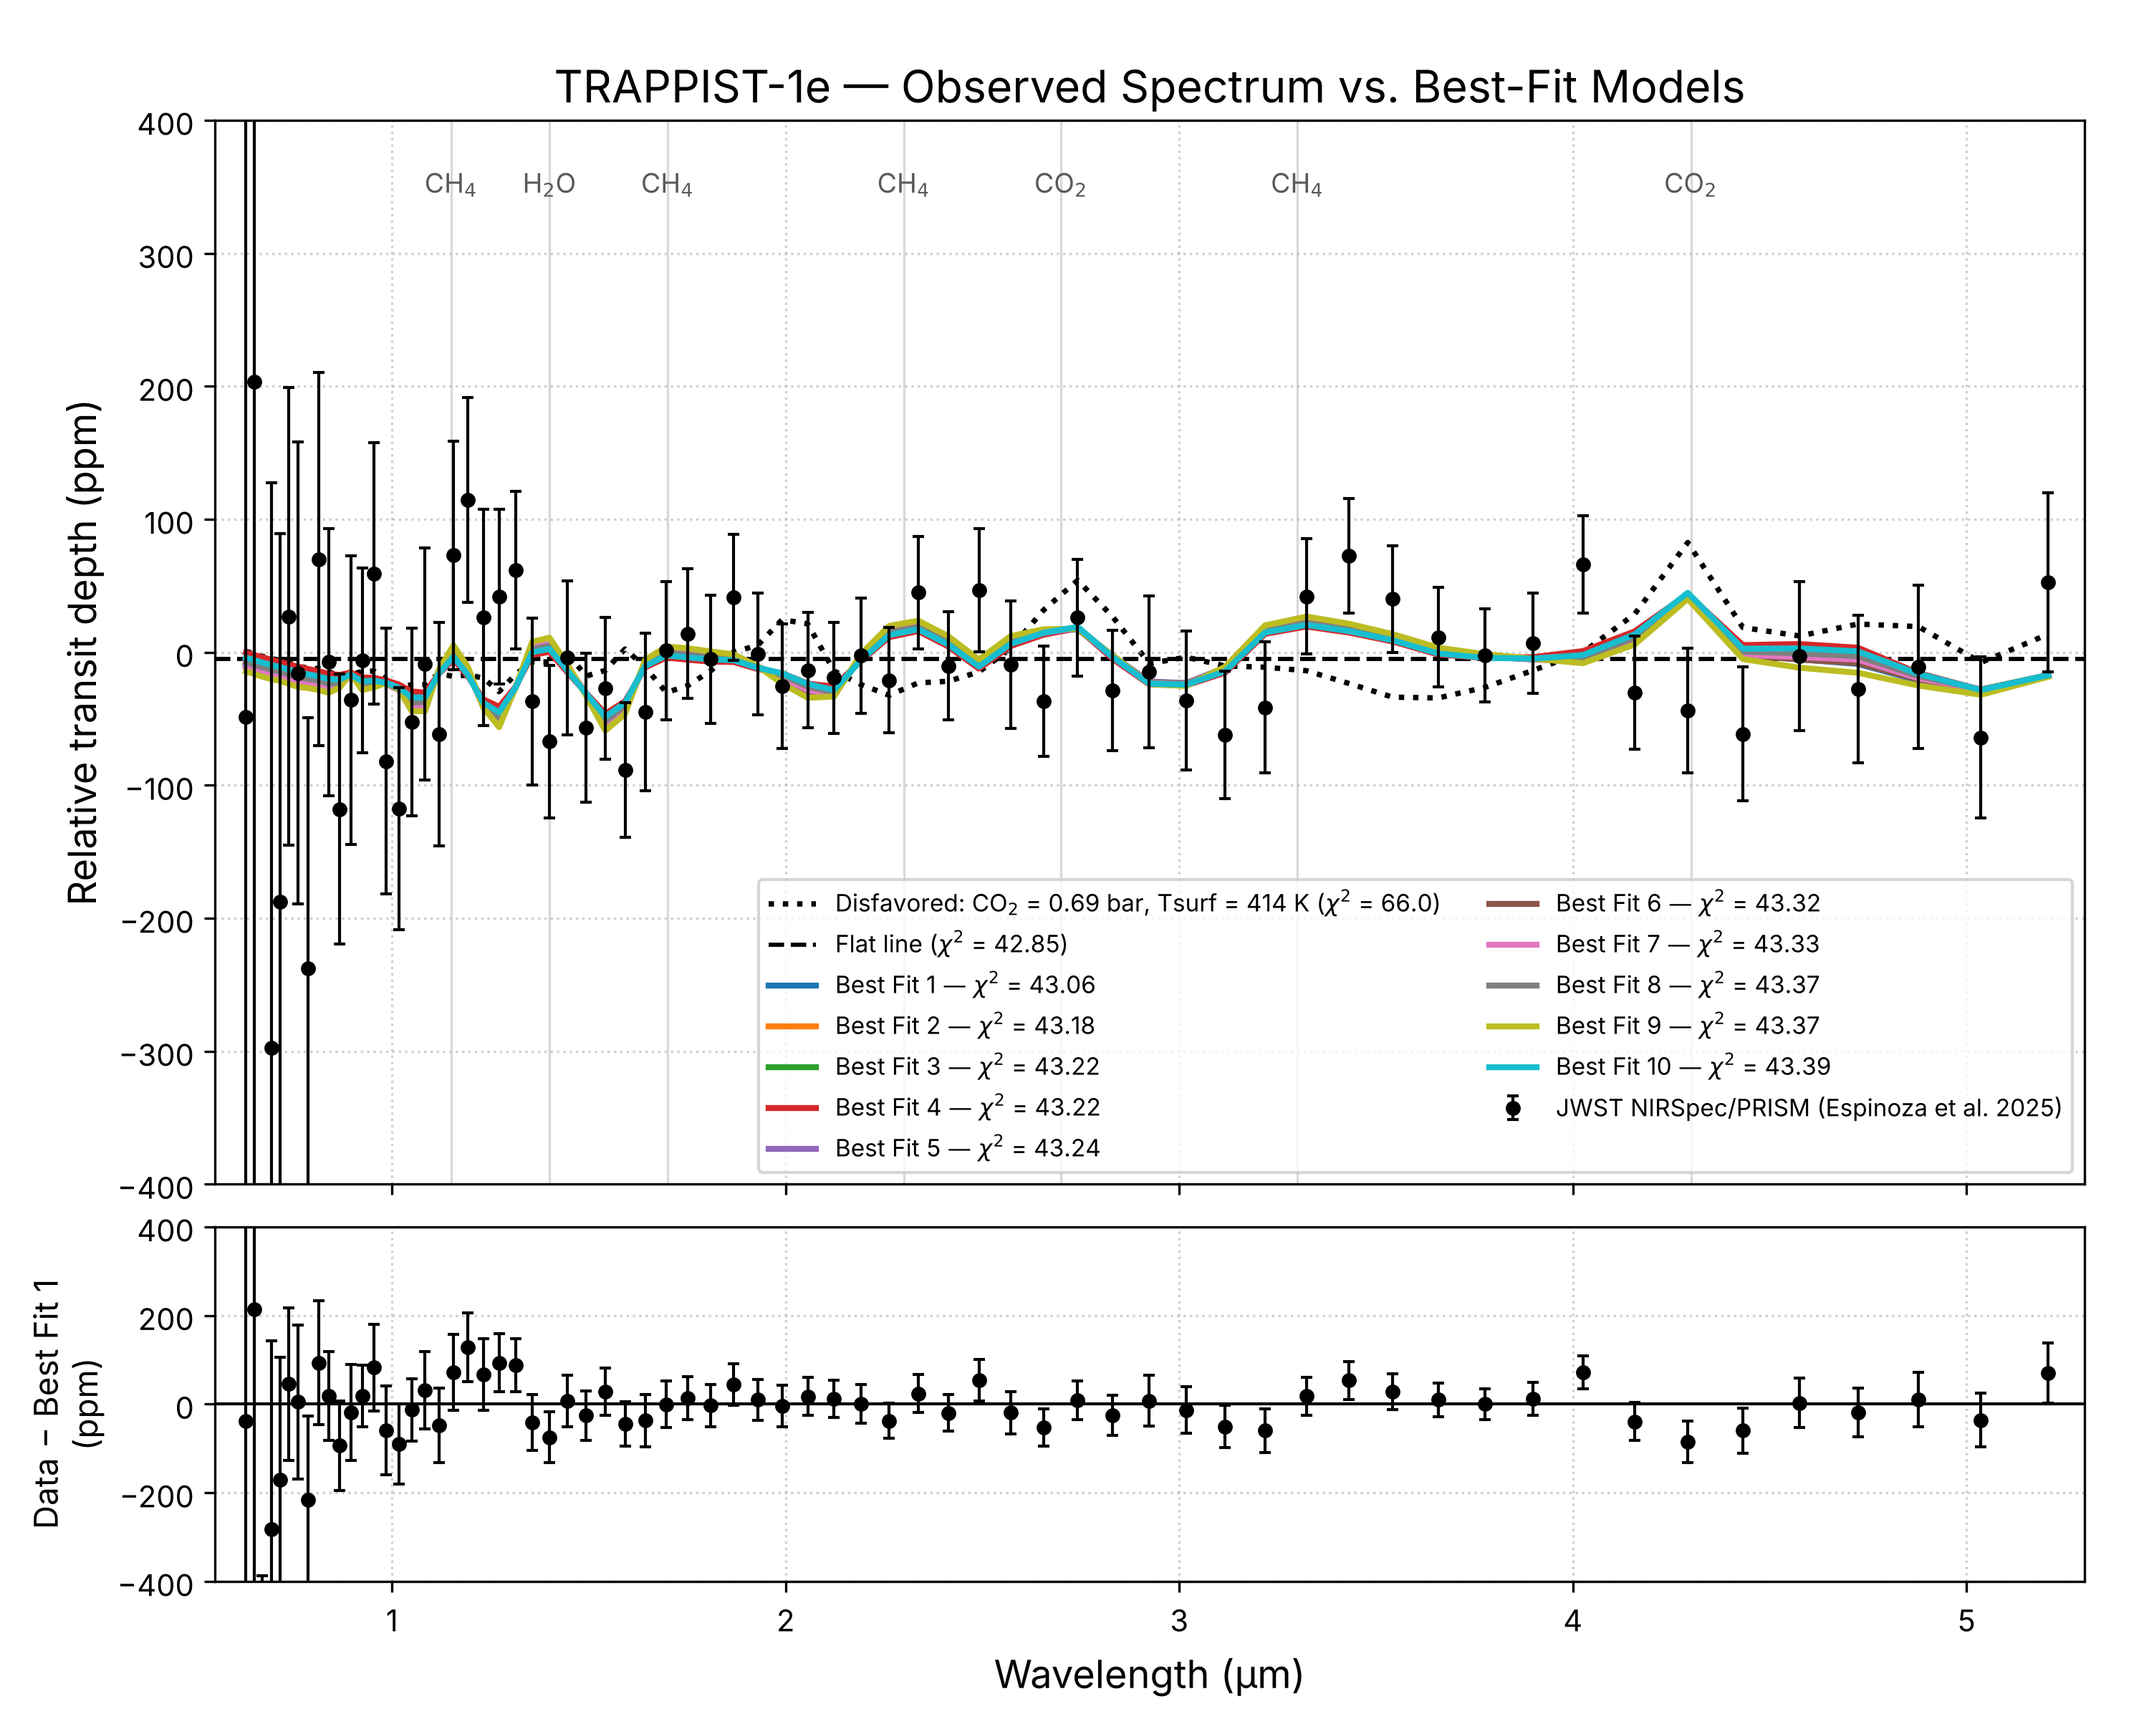
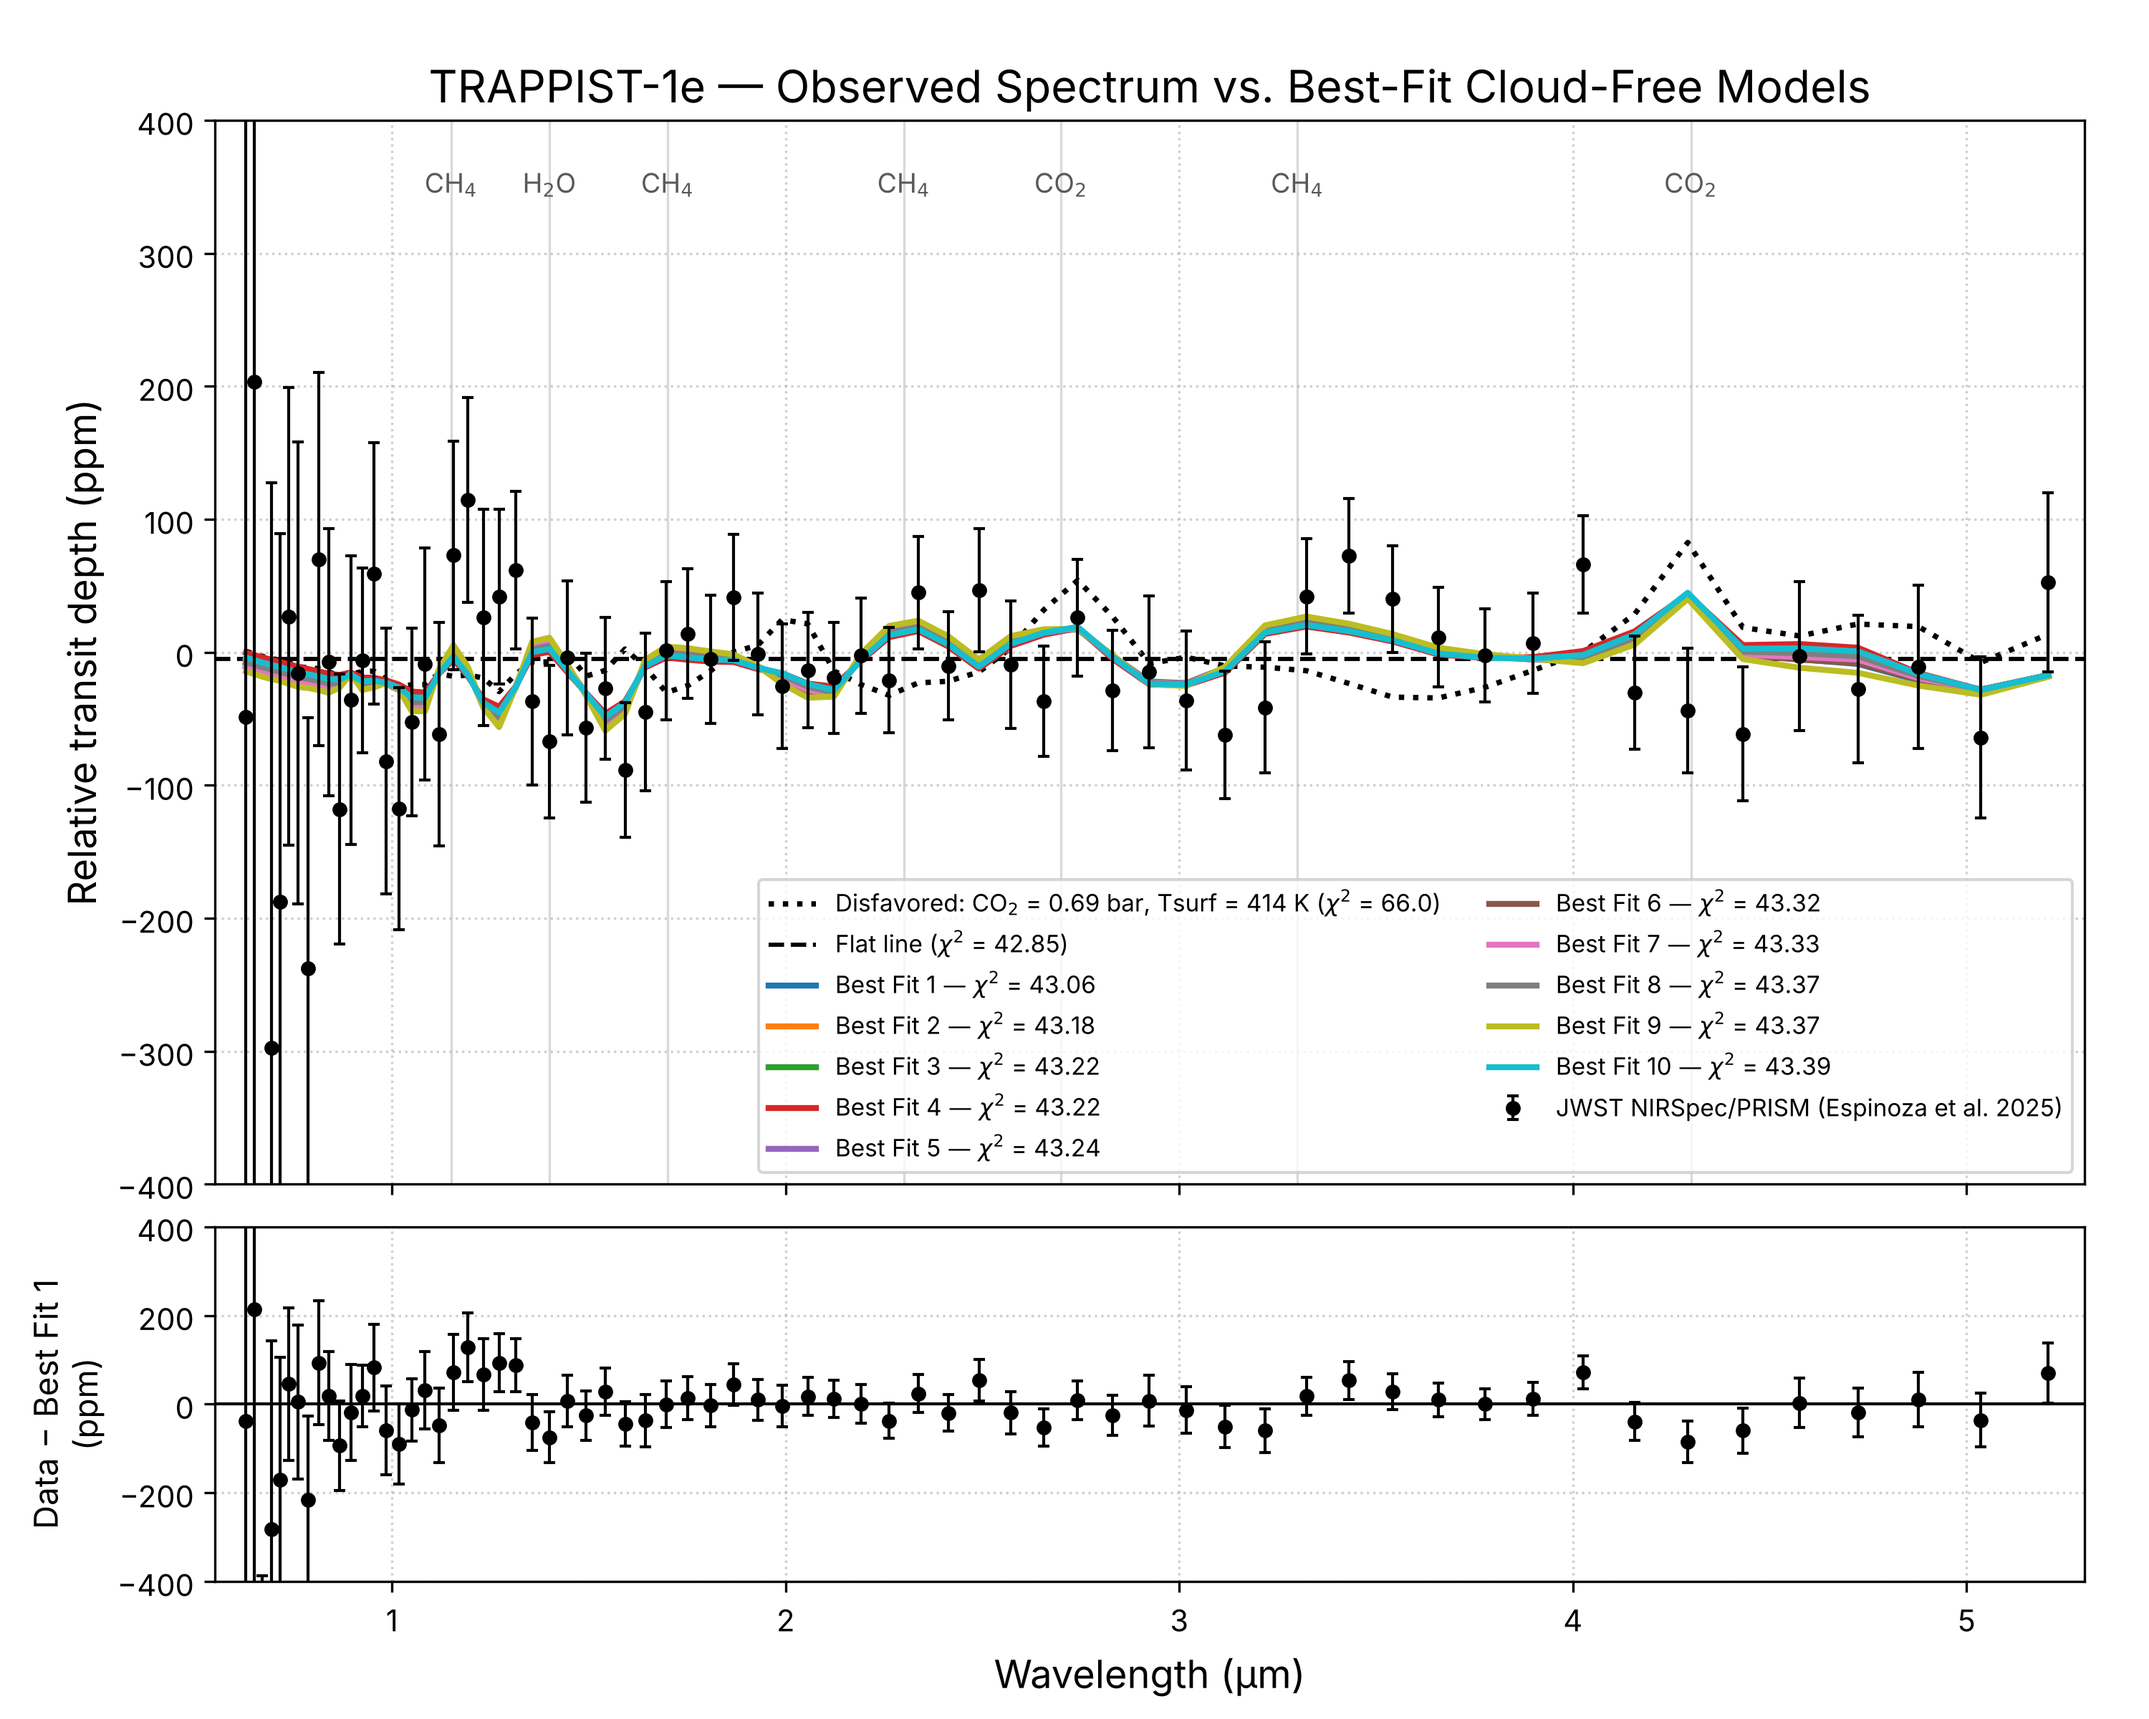
Figure 2 labelled cloud-free; README: convergence check result

Changed region(s): [[0.186, 0.0312, 0.868, 0.0625]]

diff --git a/paper_scripts/fig_spectra.py b/paper_scripts/fig_spectra.py
@@ -59,7 +59,7 @@ for x, s in [(1.15, "CH$_4$"), (1.4, "H$_2$O"), (1.7, "CH$_4$"), (2.3, "CH$_4$")
 
 ax.set_ylim(-400, 400)
 ax.set_ylabel("Relative transit depth (ppm)", fontsize=13)
-ax.set_title("TRAPPIST-1e — Observed Spectrum vs. Best-Fit Models", fontsize=15)
+ax.set_title("TRAPPIST-1e — Observed Spectrum vs. Best-Fit Cloud-Free Models", fontsize=15)
 ax.grid(True, which="both", ls=":", alpha=0.6)
 ax.legend(loc="lower right", fontsize=8, ncol=2)
 

diff --git a/README.md b/README.md
@@ -135,7 +135,7 @@ Gaussian line-spread function R = 100; one free additive offset per spectrum.
 ## Notes for users
 
 - Set the data paths before running: `JWST_FILE` in `pipeline/trappist1e_mc_pipeline.py` and in `analysis/flat_line_baseline.py`, and `VISIT_DIR` in `analysis/refit_visits12.py`.
-- In the pipeline, `photochemistry_converged` records that the photochemical integration completed without error. Whether each run reached steady state is checked separately by `analysis/convergence_check.py`, which re-runs a subsample of models and records the solver's convergence flag.
+- In the pipeline, `photochemistry_converged` records that the photochemical integration completed without error. Whether each run reached steady state is checked separately by `analysis/convergence_check.py`, which re-runs a subsample of models and records the solver's convergence flag. In a check of 100 converged models (the ten best fits and 90 random), all 100 reached steady state.
 
 ## Data sources
 
